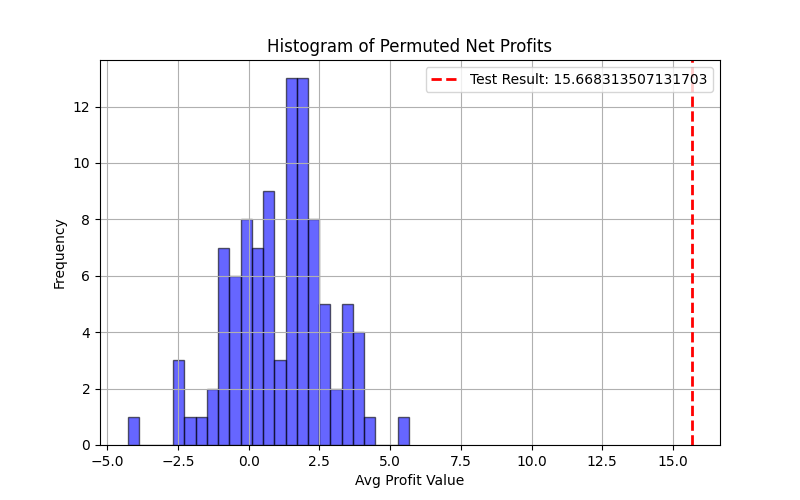
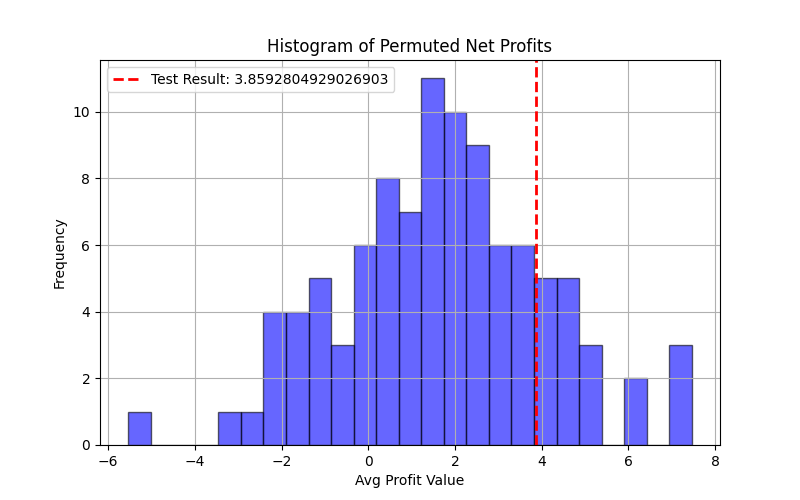
Added a simple MACD+RSI strategy for reference.

diff --git a/StrategyTester.py b/StrategyTester.py
@@ -84,11 +84,12 @@ class Strategy():
             results = process_map(self.backtest, file_names, max_workers=workers, desc="Processing", chunksize=chunksize)
         elif(self.framework == "tf"):
             results = process_map(self.backtest, file_names, max_workers=workers, desc="Processing", chunksize=chunksize)
+        elif(self.framework == "nil" and not self.is_ml):
+            results = process_map(self.backtest, file_names, max_workers=workers, desc="Processing", chunksize=chunksize)
 
         # Unpack results from processes
         day_profits, day_trades, day_num_profit, day_num_loss = zip(*results)
         
-        # Convert to lists for consistency with original code
         day_profits = list(day_profits)
         day_trades = list(day_trades)
         day_num_profit = list(day_num_profit)
@@ -157,40 +158,39 @@ class Strategy():
     
     def backtest(self, datapath):
         try:
-            os.environ['TF_CPP_MIN_LOG_LEVEL'] = '3'
-            if(self.framework == "tf"):
-                gpus = tf.config.list_physical_devices('GPU')
-                if gpus:
-                    try:
-                        tf.config.experimental.set_memory_growth(gpus[0], True)
-                    except RuntimeError as e:
-                        print(e)
-                model = load_model(f'models/{self.name}_model.h5')
-            
-            if(self.framework == "sklearn"):
-                model = self.model
-
             data = pd.read_csv(f"{self.test_data_directory}/{datapath}")
             data.columns = data.columns.str.lower()
+            if self.is_ml:
+                os.environ['TF_CPP_MIN_LOG_LEVEL'] = '3'
+                if(self.framework == "tf"):
+                    gpus = tf.config.list_physical_devices('GPU')
+                    if gpus:
+                        try:
+                            tf.config.experimental.set_memory_growth(gpus[0], True)
+                        except RuntimeError as e:
+                            print(e)
+                    model = load_model(f'models/{self.name}_model.h5')
+                
+                if(self.framework == "sklearn"):
+                    model = self.model
 
-            features = self.generate_features(data)
-            feature_columns = features.columns.to_list()
-            data = pd.concat([data, features], axis=1)
+                features = self.generate_features(data)
+                feature_columns = features.columns.to_list()
+                data = pd.concat([data, features], axis=1)
 
-            data.replace([np.inf, -np.inf], 1e6, inplace=True)
-            data.dropna(inplace=True, axis=0)
-            data.reset_index(inplace=True, drop=True)
+                data.replace([np.inf, -np.inf], 1e6, inplace=True)
+                data.dropna(inplace=True, axis=0)
+                data.reset_index(inplace=True, drop=True)
 
-            
-            if (self.framework == "sklearn"):
-                y = model.predict(data.loc[:, feature_columns])
-                data['target'] = y
-            elif (self.framework == "tf"):
-                y = model.predict(data.loc[:, feature_columns], verbose=0)
-                if(y.shape[0] >= 2):
-                    data['target'] = np.argmax(y, axis=1)
-                else:
+                if (self.framework == "sklearn"):
+                    y = model.predict(data.loc[:, feature_columns])
                     data['target'] = y
+                elif (self.framework == "tf"):
+                    y = model.predict(data.loc[:, feature_columns], verbose=0)
+                    if(y.shape[0] >= 2):
+                        data['target'] = np.argmax(y, axis=1)
+                    else:
+                        data['target'] = y
 
             data["signal"] = self.generate_signals(data)
 
@@ -232,18 +232,19 @@ class Strategy():
         
     def _permutation_test_single(self, datapath, start_index=0):
         try:
-            os.environ['TF_CPP_MIN_LOG_LEVEL'] = '3'
-            if(self.framework == "tf"):
-                gpus = tf.config.list_physical_devices('GPU')
-                if gpus:
-                    try:
-                        tf.config.experimental.set_memory_growth(gpus[0], True)
-                    except RuntimeError as e:
-                        print(e)
-                model = load_model(f'models/{self.name}_model.h5')
-            
-            if(self.framework == "sklearn"):
-                model = self.model
+            if self.is_ml:
+                os.environ['TF_CPP_MIN_LOG_LEVEL'] = '3'
+                if(self.framework == "tf"):
+                    gpus = tf.config.list_physical_devices('GPU')
+                    if gpus:
+                        try:
+                            tf.config.experimental.set_memory_growth(gpus[0], True)
+                        except RuntimeError as e:
+                            print(e)
+                    model = load_model(f'models/{self.name}_model.h5')
+                
+                if(self.framework == "sklearn"):
+                    model = self.model
 
             data = pd.read_csv(f"{self.test_data_directory}/{datapath}")
             data.columns = data.columns.str.lower()
@@ -312,23 +313,24 @@ class Strategy():
             # Now proceed with the rest of the backtest on the permuted data
             data = perm_ohlc
 
-            features = self.generate_features(data)
-            feature_columns = features.columns.to_list()
-            data = pd.concat([data, features], axis=1)
+            if self.is_ml:
+                features = self.generate_features(data)
+                feature_columns = features.columns.to_list()
+                data = pd.concat([data, features], axis=1)
 
-            data.replace([np.inf, -np.inf], 1e6, inplace=True)
-            data.dropna(inplace=True, axis=0)
-            data.reset_index(inplace=True, drop=True)
+                data.replace([np.inf, -np.inf], 1e6, inplace=True)
+                data.dropna(inplace=True, axis=0)
+                data.reset_index(inplace=True, drop=True)
 
-            if (self.framework == "sklearn"):
-                y = model.predict(data.loc[:, feature_columns])
-                data['target'] = y
-            elif (self.framework == "tf"):
-                y = model.predict(data.loc[:, feature_columns], verbose=0)
-                if(y.shape[0] >= 2):
-                    data['target'] = np.argmax(y, axis=1)
-                else:
+                if (self.framework == "sklearn"):
+                    y = model.predict(data.loc[:, feature_columns])
                     data['target'] = y
+                elif (self.framework == "tf"):
+                    y = model.predict(data.loc[:, feature_columns], verbose=0)
+                    if(y.shape[0] >= 2):
+                        data['target'] = np.argmax(y, axis=1)
+                    else:
+                        data['target'] = y
 
             data["signal"] = self.generate_signals(data)
 
@@ -405,6 +407,21 @@ class Strategy():
                     avg_profit = sum(day_profits) / len(day_profits)
                     net_profits.append(avg_profit)
                     print(f"Iteration {x_num+1}/{n_iter}: Avg Profit = {avg_profit}")
+
+        elif not self.is_ml:
+            for x_num in range(n_iter):
+                results = process_map(self._permutation_test_single, file_names, max_workers=workers, desc="Processing", chunksize=chunksize)
+                # Unpack results from processes
+                day_profits, day_trades, day_num_profit, day_num_loss = zip(*results)
+                
+                # Convert to lists for consistency with original code
+                day_profits = list(day_profits)
+                day_trades = list(day_trades)
+                day_num_profit = list(day_num_profit)
+                day_num_loss = list(day_num_loss)
+                avg_profit = sum(day_profits) / len(day_profits)
+                net_profits.append(avg_profit)
+                print(f"Iteration {x_num+1}/{n_iter}: Avg Profit = {avg_profit}")
 
         if len(net_profits) < 2:
             print("Not enough data points for a meaningful plot.")

diff --git a/strategy_3.py b/strategy_3.py
@@ -1,89 +1,47 @@
 from StrategyTester import Strategy
-from feature_generator_4 import feature_gen
 import numpy as np
 import pandas as pd
-from sklearn.ensemble import RandomForestClassifier
-from scipy.signal import savgol_filter
+
 
 class Strategy_1(Strategy):
-    def __init__(self, name = "Strategy_0_updated", train_data_directory = "", test_data_directory = "", is_ml = True, sl = -100, day_sl = -500, tp = 10000000, framework = "sklearn"):
+    def __init__(self, name = "Strategy_0_updated", train_data_directory = "", test_data_directory = "", is_ml = False, sl = -100, day_sl = -500, tp = 10000000, framework = "sklearn"):
         super().__init__(name, train_data_directory, test_data_directory, is_ml, sl, day_sl, tp, framework)
 
 
-    def generate_features(self, data):
-        features = feature_gen(data)
-        return features
-
-    def generate_target_var(self, data: pd.DataFrame) -> pd.DataFrame:
-        df = data.copy()
-
-        min_profit = 3.0
-
-        df['target'] = 0
-        df['savgol'] = savgol_filter(df['close'], 11, 3)
-        df['savgol_shift'] = df['savgol'].shift()
-        df['target'] = np.where(df['savgol'] > df['savgol_shift'], 2, 0)
-
-        buy = 0
-        i=0
-        while(i<len(df)):
-            if(df.loc[i, 'target'] == 2):
-                buy = df.loc[i, 'close']
-                for j in range(i+1, len(df)):
-                    if(df.loc[j, 'target'] == 0):
-                        profit = (df.loc[j, "close"]/buy - 1)*100
-                        if(profit < min_profit):
-                            for k in range(j+1, len(df)):
-                                if(df.loc[k, 'target'] == 2 or k == len(df)-1):
-                                    df.loc[i:k, 'target'] = 1
-                                    i = k - 1
-                                    break
-                            break
-                        else:
-                            i = j
-                            break
-                    if(j == len(df)-1):
-                        i = j
-            i += 1
-                
-
-        df["target"] = df["target"].astype(int)
-        return df[["target"]]
-
-
-    def define_and_fit_model(self, x_train, y_train):
-        """
-        Defines, compiles, and fits the model for multi-class classification on tabular data.
-
-        Args:
-            x_train (np.array): The training input data (2D array).
-            y_train (np.array): The training target data, with integer labels (e.g., 0, 1, 2).
-
-        Returns:
-            The trained model.
-        """
-        if x_train.ndim != 2:
-            raise ValueError("Input x_train must be a 2D array for tabular data.")
-        
-        model = RandomForestClassifier(n_estimators=100, random_state=42, n_jobs=10, min_samples_leaf = 60)
-
-        model.fit(x_train, y_train)
-
-         #Print training completion message
-
-        print("\n--- Training finished ---")
-
-        # 6. Return the fully trained model
-        return model
-
     def generate_signals(self, data):
+        from indicators import rsi, zlema
+
         # The returned signal should be 1 for buy, -1 for sell, and 0 for hold/do nothing
-        data["signal"] = data["target"] - 1
+        data.loc[:, "signal"] = 0
+
+        # data["ema_long"] = data["close"].ewm(span=26, adjust=False).mean()
+        # data["ema_short"] = data["close"].ewm(span=12, adjust=False).mean()
+
+
+        #Using ZLEMA instead of EMA to reduce lag. ZLEMA is Zero Lag Exponential Moving Average mentioned by John Ehlers in his book "Cybernetic Analysis for Stocks and Futures"
+        #ZLEMA improved the sharpe ratio by almost 1.5 in backtesting compared to EMA
+        data["ema_long"] = zlema(data["close"], period=26)
+        data["ema_short"] = zlema(data["close"], period=12)
+
+        data["macd"] = data["ema_short"] - data["ema_long"]
+    
+        #data["macd_signal"] = data["macd"].ewm(span=9, adjust=False).mean()
+        data["macd_signal"] = zlema(data["macd"], period=9)
+
+        data["rsi"] = rsi(data["close"], lookback=14)
+
+        for i in range(1, len(data)):
+            if(data.loc[i, "macd"] >= data.loc[i, "macd_signal"] and data.loc[i, "rsi"] < 70):
+                data.loc[i, "signal"] = 1
+            elif(data.loc[i, "macd"] <= data.loc[i, "macd_signal"] and data.loc[i, "rsi"] > 30):
+                data.loc[i, "signal"] = -1
+            else:
+                data.loc[i, "signal"] = 0
+
         return data["signal"]
 
 
 if __name__ == "__main__":
     strategy_2 = Strategy_1(train_data_directory="train_data", test_data_directory="test_data", sl=-5, day_sl=-20, framework="nil", is_ml=False)
-    strategy_2.prepare_data_train(workers=10)
     strategy_2.test()
     strategy_2.walkforward_permutation_test(n_iter=100)
